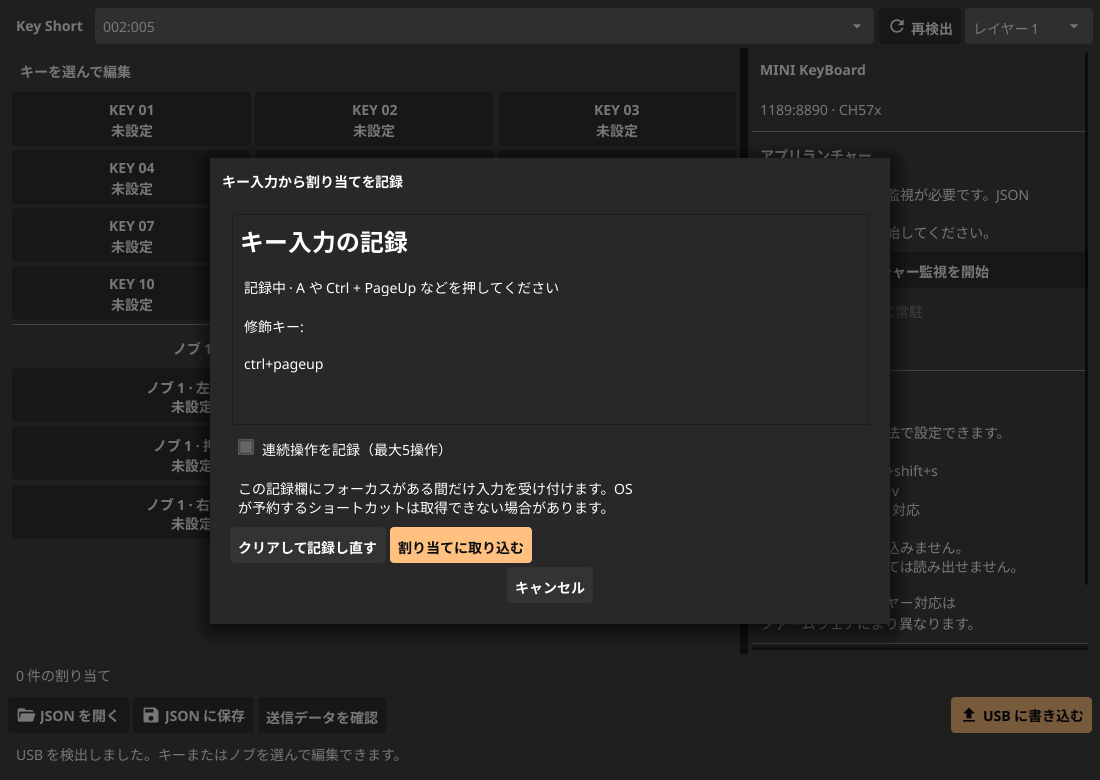
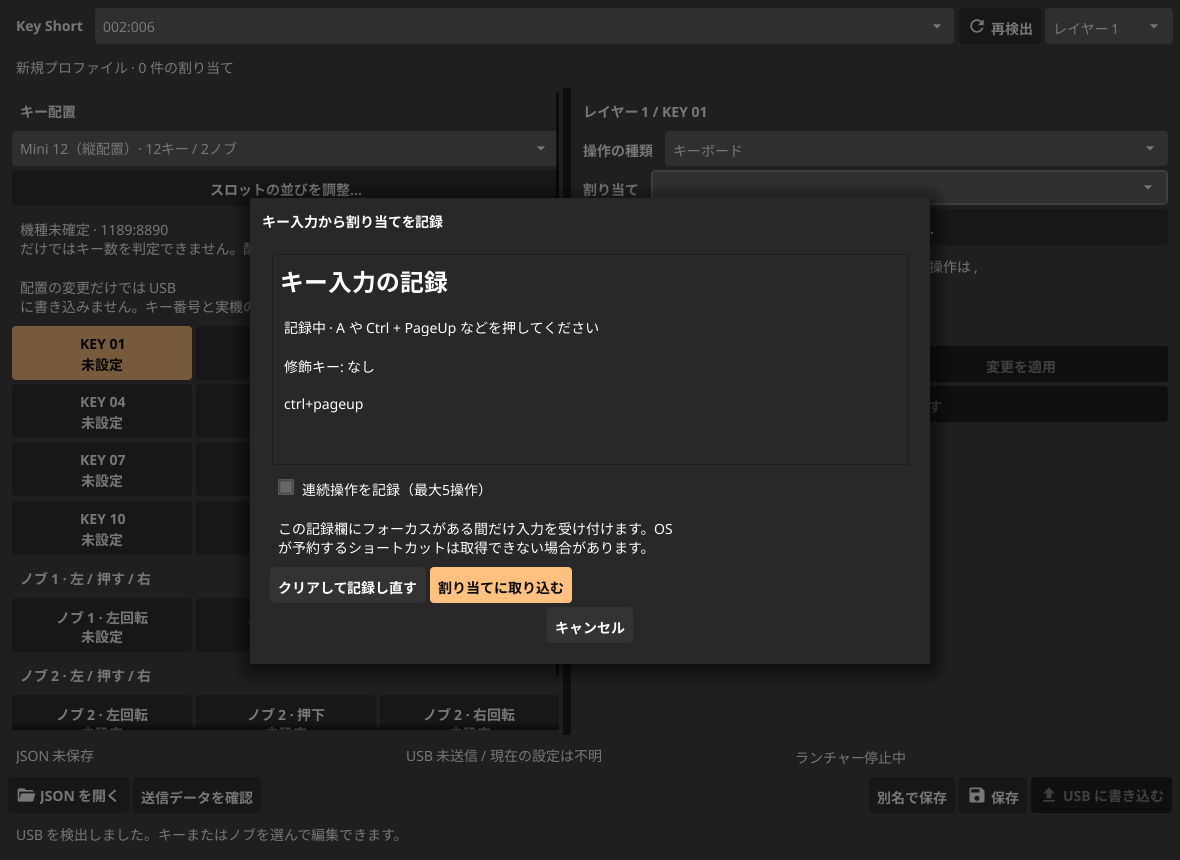
chore: document layout presets and the revised editing workflow

diff --git a/README.md b/README.md
@@ -1,12 +1,14 @@
 # Key Short
 
-USB ID `1189:8890` の MINI KeyBoard を設定するデスクトップアプリです。Go と Fyne を使用し、Linux、Windows、macOS のネイティブ処理を実装しています。12キーと2つのノブに対応しています。
+USB ID `1189:8890` の MINI KeyBoard を設定するデスクトップアプリです。Go と Fyne を使用し、Linux、Windows、macOS のネイティブ処理を実装しています。3・6・9・12キーの配置プリセットと、最大12キー・2ノブのカスタム配置に対応しています。
 
 ![Key Short のキー・ノブ設定画面](docs/screenshot.png)
 
 ## 機能
 
 - キーと、各ノブの左回転・押下・右回転への割り当て。
+- 配置プリセットの選択、手動のスロット並べ替え、保存済み配置の復元。
+- 右側の編集パネル、適用前の入力検証、JSON・USB・ランチャーの独立した状態表示。
 - Ctrl、Shift、Alt、Super などを組み合わせたショートカット。
 - 最大5操作の連続入力、F1〜F24、日本語キーボードの一部のキー。
 - 音量、ミュート、再生などのメディア操作。
@@ -58,13 +60,19 @@ sudo ./scripts/install-udev.sh
 ```
 
 1. 対象の USB デバイスを選択します。接続後は「再検出」で一覧を更新します。
-2. レイヤーとキー、またはノブの操作を選択します。
-3. 操作の種類と割り当てを指定し、「設定に追加」を押します。
-4. 「JSON に保存」で設定をファイルに保存します。
+2. キー配置のプリセットを選び、レイヤーとキー、またはノブの操作を選択します。
+3. 右側で操作の種類と割り当てを指定し、「変更を適用」を押します。
+4. 「保存」で設定を JSON ファイルに保存します。初回は保存先フォルダーとファイル名を指定します。「別名で保存」も使用できます。
 5. 「送信データを確認」で内容を確認し、「USB に書き込む」を押します。
 6. 実際のキー・ノブ操作で結果を確認します。
 
 初期状態の設定は空です。追加した項目だけを送信します。「書き込み対象から外す」はアプリ内の設定から項目を取り除きます。本体の割り当ては消去しません。空のキー操作を送る場合は `keyboard` の値に `none` を指定できますが、無効化の挙動は本体のファームウェアに依存します。
+
+キーの編集中は、JSON 保存・USB 送信・監視開始を保留します。「変更を適用」でプロファイル全体の整合性を検証して確定するか、「編集を戻す」で破棄してください。別のキーや配置へ切り替える場合も、未適用の変更を破棄するか確認します。
+
+画面下部には「JSON 未保存」「USB 未送信 / 未反映 / 送信済み」「ランチャー停止中 / 監視中」を別々に表示します。JSON の保存では USB の状態を変更しません。USB の「送信済み · 実機未検証」は転送の完了を意味します。読み戻して照合した結果ではありません。
+
+JSON の保存は、保存先を開く前に設定を検証し、一時ファイルへの書き込みを終えてから置き換えます。「別名で保存」で既存ファイルを指定した場合は、置き換えを確認します。キャンセル、検証失敗、保存確認中の設定変更では既存ファイルを変更しません。
 
 アプリを閉じる前に JSON に保存してください。次回の GUI 起動時に、最後に保存・読み込みした JSON を開きます。未保存の編集内容は復元しません。
 
@@ -81,7 +89,7 @@ make install
 1. キーの編集画面で操作を「キーボード」にし、「キー入力から記録…」を押します。
 2. 記録欄にフォーカスがある状態で、割り当てたいキーを押します。A は `a`、Ctrl を押しながら PageUp を押すと `ctrl+pageup` と表示します。
 3. 「割り当てに取り込む」を押すと、編集画面の割り当て欄へ反映します。
-4. 「設定に追加」から JSON の保存と USB への書き込みへ進みます。
+4. 「変更を適用」から JSON の保存と USB への書き込みへ進みます。
 
 「連続操作を記録」を有効にすると最大5操作を順に記録します。長押しのリピートは追加しません。修飾キーの左右を区別し、修飾キーだけでは操作を確定しません。記録欄からフォーカスが外れると一時停止します。OS が予約するショートカットは取得できない場合があります。入力はログへ出力しません。
 
@@ -93,7 +101,7 @@ make install
 2. 「アプリを選択」でインストール済みアプリを選ぶか、「コマンドラインで実行」で引数付きコマンドを入力します。
 3. 再利用したい場合は「起動済みなら、そのウィンドウを前面にする」を有効にします。無効の場合は押すたびに起動コマンドを実行します。
 4. 「起動をテスト」で起動と前面化を確認します。この操作は USB への書き込みを必要としません。
-5. 「設定に追加」、JSON の保存、USB への書き込みを行い、「ランチャー監視を開始」を押します。
+5. 「変更を適用」、JSON の保存、USB への書き込みを行い、「LED・ランチャー設定」を開いて「ランチャー監視を開始」を押します。
 
 「閉じてもトレイに常駐」を有効にすると、設定ウィンドウを閉じた後も監視を続けます。設定を変更すると監視を停止します。設定変更後は監視を開始し直してください。保存済みの設定で監視を有効にして終了した場合は、次の GUI 起動時に監視を再開します。
 
@@ -181,7 +189,7 @@ USB を使わず、指定スロットの起動・前面化を実行する場合:
 | 13 / 14 / 15 | ノブ1の左回転 / 押下 / 右回転 |
 | 16 / 17 / 18 | ノブ2の左回転 / 押下 / 右回転 |
 
-画面上のキー配置は番号の一覧です。実機の物理配置や回転方向と対応しない場合は、1項目ずつ割り当てて確認してください。
+画面のキー配置はプリセットとカスタム配置から選択します。USB ID だけではキー数や配置を確定しません。実機との対応が異なる場合は「スロットの並びを調整…」で表示順を変更してください。詳しくは [キー配置の設定](docs/layouts.md) を参照してください。
 
 ## 通信と検証状況
 
@@ -212,7 +220,7 @@ make check
 make build
 ```
 
-テストでは提供された Windows 版の送信形式と期待するフレームを照合し、複数操作、ノブ2、レイヤー、LED の保存コマンド、不正な入力、JSON の保存・読み込みを検証します。テストは USB に設定を書き込みません。
+テストでは提供された Windows 版の送信形式と期待するフレームを照合し、複数操作、ノブ2、レイヤー、LED の保存コマンド、不正な入力、JSON の保存・読み込みを検証します。配置の切り替えと復元、配置外スロットの送信拒否、編集中の衝突検出、保存キャンセル時の既存ファイル保護も検証します。テストは USB に設定を書き込みません。
 
 GitHub Actions は3 OS の vet・テスト・ネイティブビルドを実行します。Linux では整形、モジュール整合性、競合検出、脆弱性検査も行います。Dependabot は Go Modules と GitHub Actions の更新を毎週金曜 09:00（Asia/Tokyo）に確認します。[CI の構成と調査結果](docs/ci.md) を参照してください。
 

diff --git a/docs/layouts.md b/docs/layouts.md
@@ -1,0 +1,72 @@
+# キー配置の設定
+
+「キー配置」から、接続したマクロパッドの形に合うプリセットを選択します。対象は USB ID `1189:8890` と、現在実装している Report ID 3 の通信方式です。プリセットの選択は表示と送信対象の検証に使います。選択しただけでは本体へ書き込みません。
+
+## プリセット
+
+| プリセット | 列 × 行 | キー | ノブ |
+| --- | --- | --- | --- |
+| Mini 3 | 3 × 1 | 3 | 1 |
+| Mini 6 | 2 × 3 | 6 | 1 |
+| Mini 9 | 3 × 3 | 9 | 2 |
+| Mini 12 | 4 × 3 | 12 | 2 |
+| Mini 12（縦配置） | 3 × 4 | 12 | 2 |
+
+初期のスロット順序は左上から行ごとに K1、K2…です。これは表示の初期値であり、各機種の物理順序を実機で検証した結果ではありません。同じキー数でも順序が異なる場合は、次の手順で調整します。
+
+1. プリセットを選び、「スロットの並びを調整…」を開きます。
+2. 列数と、左上から行順に並べたキーの物理スロット番号を入力します。
+3. ノブは左回転、押下、右回転の順に指定します。ノブ同士は `;` で区切ります。
+4. プレビューを確認し、「この配置を使う」を押します。
+5. 必要な割り当てを右側で編集して適用し、JSON に保存します。
+
+キーは1〜12、ノブの操作は13〜18から、重複しないスロット番号を指定します。キー数が3の場合も、ノブのスロットを4〜6には変更しません。標準のノブ1は13・14・15、ノブ2は16・17・18です。ノブ欄を空にすると、ノブのない配置を保存できます。
+
+![カスタム配置の確認・調整画面](layout-settings.png)
+
+本体の現在の設定は読み出せません。通常のキー入力だけから、元の物理スロットを特定する機能はありません。この画面は手動の対応表編集です。識別用の一時的なキー割り当てを本体へ自動送信する機能は実装していません。
+
+## 既存の割り当てを保持する
+
+表示の並びを変えても、割り当ては元の物理スロット番号に残ります。例えば、K3 を左上に移しても、K3 の割り当てを K1 へコピーすることはありません。
+
+小さい配置へ切り替えたときに表示されなくなった割り当ても、JSON に保存できます。ただし、配置外のスロットを含むプロファイルは、全レイヤーについて USB 送信とランチャー監視の開始を拒否します。大きい配置へ戻して該当する割り当てを「書き込み対象から外す」か、割り当てを含む配置へ戻してから送信してください。「書き込み対象から外す」は、本体の設定の消去ではありません。
+
+## 検出と復元
+
+USB ID だけではキー数や物理順序を確定しません。画面には「機種未確定」と表示し、プリセットを選べる状態にします。`1189:8890` に、別系統の機種向けのレイアウト照会コマンド `0xFB` を送ることはありません。`8840` / `8842` などの別プロトコルは未対応です。
+
+選択した配置は JSON の `layout` に保存します。`layout` のない過去の JSON は、従来の12キー・2ノブ、3列 × 4行で開きます。開いている JSON の配置を、接続時の復元処理で上書きしません。
+
+配置を選択すると、アプリの設定にも接続情報に対応付けて記憶します。Linux では sysfs の USB 接続位置とシリアル、Windows/macOS では HID パスとシリアルを使います。同じ工場出荷時シリアルを持つ個体の衝突を避けるため、シリアルだけでは照合しません。バス上の一時的なデバイス番号も照合キーには使いません。
+
+次回の起動や「再検出」時に、開いている JSON、編集中の変更、既存の割り当てがなければ、保存済みの配置を自動復元します。接続位置による復元であり、機種を確定した結果ではありません。USB ポートの移動、HID パスの変更、OS の変更では再選択が必要になる場合があります。持ち運ぶ設定は JSON に保存してください。接続情報を取得できない場合も JSON から復元できます。
+
+## JSON の例
+
+以下は6キーの表示順を手動で並べ替える例です。この順序がすべての6キー機種に一致するとは限りません。
+
+```json
+{
+  "version": 1,
+  "device": "1189:8890",
+  "layout": {
+    "preset": "custom",
+    "columns": 2,
+    "slots": [3, 6, 2, 5, 1, 4],
+    "knobs": [{"left": 13, "press": 14, "right": 15}]
+  },
+  "led": null,
+  "bindings": []
+}
+```
+
+`slots` は行順に並んだ表示位置とプロトコルのスロット番号の対応です。`knobs` は上から順に表示するノブの操作とスロット番号の対応です。JSON と CLI も同じ検証処理を使い、配置に存在しないスロットへの送信を拒否します。
+
+## 調査資料
+
+- [3キー・1ノブの1189:8890向け実装](https://github.com/devkev/hid-minikb-libusb)
+- [6キー・1ノブの1189:8890向け実装](https://github.com/nonatofabio/macrokey-driver)
+- [CH57x の世代別通信と読み戻しの対応](https://github.com/wimpysworld/WonKey/wiki/hardware)
+
+これらの資料でも機種やプロトコルが分かれています。本アプリのプリセット追加は、各個体の通信や物理スロット順序の実機検証を保証するものではありません。
